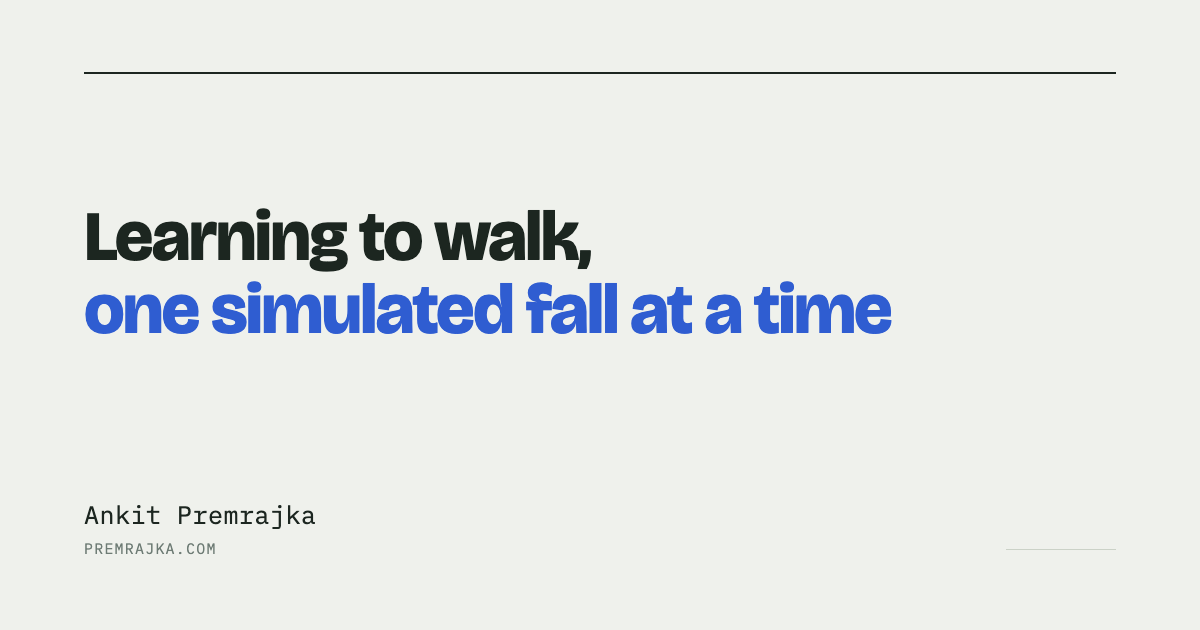
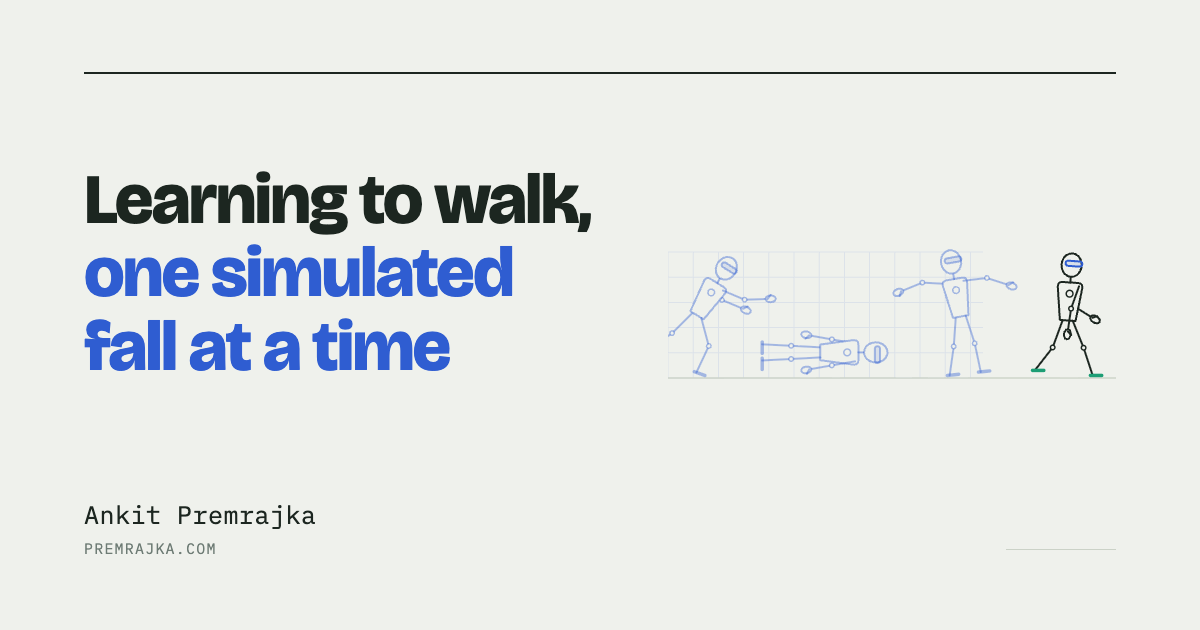
Refresh post preview cards; drop Sources sections
- Add simple line illustrations to the four existing post preview cards,
  with a recurring humanoid robot on the robotics posts and a seen/imagined
  film strip on the world models primer; bump their og:image tags to ?v=2
  so social sites refetch them
- Remove the Sources section from the world models primer (and the now
  unused .sources styles) to keep posts consistent

Claude-Session: https://claude.ai/code/session_01TZqvQS7foht1FQ95u5NHkG

Changed region(s): [[0.0617, 0.2714, 0.8325, 0.6032], [0.7708, 0.3921, 0.925, 0.6032]]

diff --git a/posts/world-models-primer.html b/posts/world-models-primer.html
@@ -10,11 +10,11 @@
 <meta property="og:title" content="World Models: What They Are, How They're Built, and Who's Building Them">
 <meta property="og:description" content="Every AI company now claims a &quot;world model&quot;. Here's what one actually is, and how to tell.">
 <meta property="og:url" content="https://premrajka.com/posts/world-models-primer.html">
-<meta property="og:image" content="https://premrajka.com/assets/img/og-world-models-primer.png">
+<meta property="og:image" content="https://premrajka.com/assets/img/og-world-models-primer.png?v=2">
 <meta name="twitter:card" content="summary_large_image">
 <meta name="twitter:title" content="World Models: What They Are, How They're Built, and Who's Building Them">
 <meta name="twitter:description" content="Every AI company now claims a &quot;world model&quot;. Here's what one actually is, and how to tell.">
-<meta name="twitter:image" content="https://premrajka.com/assets/img/og-world-models-primer.png">
+<meta name="twitter:image" content="https://premrajka.com/assets/img/og-world-models-primer.png?v=2">
 <link rel="icon" type="image/svg+xml" href="../assets/img/favicon.svg">
 <link rel="preconnect" href="https://fonts.googleapis.com">
 <link href="https://fonts.googleapis.com/css2?family=Bricolage+Grotesque:opsz,wght@12..96,400;12..96,600;12..96,700&family=Source+Serif+4:ital,opsz,wght@0,8..60,400;0,8..60,600;1,8..60,400&family=IBM+Plex+Mono:wght@400;500&display=swap" rel="stylesheet">
@@ -39,7 +39,7 @@
   <div class="hero-inner">
     <h1>World models, <span>from the ground up</span></h1>
     <p class="lede">"World model" has become one of the most overloaded terms in AI. Startups use it in pitch decks, chip companies sell "world foundation model" platforms, and research labs use it to mean several quite different things. This post builds a precise mental model from the ground up: what a world model is, how it differs from the two things it's most often confused with, how frontier labs actually train one, how anyone measures whether it gets physics right, and who is building them today.</p>
-    <p class="hero-note">A primer on the learned simulators behind the next wave of robotics, driving, and interactive media. Facts about companies and models are current as of October 2026. Technical terms are collected in a glossary, and sources are listed at the end.</p>
+    <p class="hero-note">A primer on the learned simulators behind the next wave of robotics, driving, and interactive media. Facts about companies and models are current as of October 2026. Technical terms are collected in a glossary at the end.</p>
   </div>
 </div>
 
@@ -68,7 +68,6 @@
 
     <div class="rail-part">5 · Reference</div>
     <a href="#glossary">Glossary</a>
-    <a href="#sources">Sources</a>
   </nav>
 
   <main>
@@ -418,7 +417,7 @@
     <div class="part-head">
       <span class="pnum">Part Five</span>
       <h2>Reference</h2>
-      <p>Terms used throughout, and where the facts come from.</p>
+      <p>The technical terms used throughout, in one place.</p>
     </div>
 
     <section class="s" id="glossary">
@@ -461,32 +460,6 @@
         <dt>World model</dt>
         <dd>A learned system that predicts how the world's state changes in response to actions.</dd>
       </dl>
-    </section>
-
-    <section class="s" id="sources">
-      <h3>Sources</h3>
-      <ul class="sources">
-        <li><a href="https://www.worldlabs.ai/blog/atlas" target="_blank" rel="noopener noreferrer">World Labs — Atlas: A World Model for Spatial Intelligence</a></li>
-        <li><a href="https://www.worldlabs.ai/blog" target="_blank" rel="noopener noreferrer">World Labs — Research &amp; Insights (SceniX, real-to-sim-to-real)</a></li>
-        <li><a href="https://techcrunch.com/2025/08/05/deepmind-reveals-genie-3-a-world-model-that-could-be-the-key-to-reaching-agi" target="_blank" rel="noopener noreferrer">TechCrunch — DeepMind reveals Genie 3</a></li>
-        <li><a href="https://techcrunch.com/2026/01/29/i-built-marshmallow-castles-in-googles-new-ai-world-generator-project-genie" target="_blank" rel="noopener noreferrer">TechCrunch — Hands-on with Project Genie</a></li>
-        <li><a href="https://shellypalmer.com/2026/01/google-will-simulate-a-world-for-you/" target="_blank" rel="noopener noreferrer">Shelly Palmer — Project Genie details</a></li>
-        <li><a href="https://en.wikipedia.org/wiki/Genie_(world_model)" target="_blank" rel="noopener noreferrer">Wikipedia — Genie (world model)</a></li>
-        <li><a href="https://en.wikipedia.org/wiki/Waymo_World_Model" target="_blank" rel="noopener noreferrer">Wikipedia — Waymo World Model</a></li>
-        <li><a href="https://decrypt.co/362243/openai-shut-down-sora-derailing-1-billion-deal-disney" target="_blank" rel="noopener noreferrer">Decrypt — OpenAI shuts down Sora</a></li>
-        <li>Odyssey-3 coverage: <a href="https://explainx.ai/blog/odyssey-3-world-model-launch-2026" target="_blank" rel="noopener noreferrer">ExplainX</a> and <a href="https://www.orcarouter.ai/blog/odyssey-3-physics-agent-preview" target="_blank" rel="noopener noreferrer">OrcaRouter</a></li>
-        <li><a href="https://logicity.in/en/blog/odyssey-ml-raises-310m-to-build-ai-that-simulates-physics" target="_blank" rel="noopener noreferrer">Odyssey funding</a></li>
-        <li><a href="https://siliconangle.com/2026/03/10/yann-lecuns-new-startup-ami-labs-raises-1-03b-train-world-models/" target="_blank" rel="noopener noreferrer">SiliconANGLE — AMI Labs raises $1.03B</a></li>
-        <li><a href="https://arxiv.org/pdf/2606.02800" target="_blank" rel="noopener noreferrer">NVIDIA — Cosmos 3: Omnimodal World Models for Physical AI (technical report)</a></li>
-        <li><a href="https://arxiv.org/pdf/2501.03575" target="_blank" rel="noopener noreferrer">NVIDIA — Cosmos World Foundation Model Platform (original Cosmos paper)</a></li>
-        <li><a href="https://github.com/google-deepmind/physics-iq-benchmark" target="_blank" rel="noopener noreferrer">Physics-IQ and Physics-IQ Verified leaderboards</a></li>
-        <li><a href="https://arxiv.org/pdf/2606.18943" target="_blank" rel="noopener noreferrer">Physics-IQ Verified paper</a></li>
-        <li><a href="https://openaccess.thecvf.com/content/CVPR2026/papers/Zhou_PAI-Bench_A_Comprehensive_Benchmark_For_Physical_AI_CVPR_2026_paper.pdf" target="_blank" rel="noopener noreferrer">PAI-Bench (CVPR 2026)</a></li>
-        <li><a href="https://arxiv.org/html/2610.08791" target="_blank" rel="noopener noreferrer">World Models' Last Exam in Physics</a></li>
-        <li><a href="https://arxiv.org/pdf/2609.29669" target="_blank" rel="noopener noreferrer">Survey of evaluation benchmarks for predictive embodied intelligence</a></li>
-        <li><a href="https://arxiv.org/pdf/2606.17030" target="_blank" rel="noopener noreferrer">WorldModelBench results (reported in Qwen-RobotWorld technical report)</a></li>
-        <li><a href="https://github.com/nik-55/world-models" target="_blank" rel="noopener noreferrer">Curated list of world model research</a></li>
-      </ul>
     </section>
 
     <div class="footer">

diff --git a/posts/training-robot-policies.html b/posts/training-robot-policies.html
@@ -10,11 +10,11 @@
 <meta property="og:title" content="Learning to Walk, One Simulated Fall at a Time">
 <meta property="og:description" content="How reward design and massively parallel simulation teach a robot to walk — then map the concepts onto a real open-source repository.">
 <meta property="og:url" content="https://premrajka.com/posts/training-robot-policies.html">
-<meta property="og:image" content="https://premrajka.com/assets/img/og-training-robot-policies.png">
+<meta property="og:image" content="https://premrajka.com/assets/img/og-training-robot-policies.png?v=2">
 <meta name="twitter:card" content="summary_large_image">
 <meta name="twitter:title" content="Learning to Walk, One Simulated Fall at a Time">
 <meta name="twitter:description" content="How reward design and massively parallel simulation teach a robot to walk — then map the concepts onto a real open-source repository.">
-<meta name="twitter:image" content="https://premrajka.com/assets/img/og-training-robot-policies.png">
+<meta name="twitter:image" content="https://premrajka.com/assets/img/og-training-robot-policies.png?v=2">
 <link rel="icon" type="image/svg+xml" href="../assets/img/favicon.svg">
 <link rel="preconnect" href="https://fonts.googleapis.com">
 <link href="https://fonts.googleapis.com/css2?family=Bricolage+Grotesque:opsz,wght@12..96,400;12..96,600;12..96,700&family=Source+Serif+4:ital,opsz,wght@0,8..60,400;0,8..60,600;1,8..60,400&family=IBM+Plex+Mono:wght@400;500;600&display=swap" rel="stylesheet">

diff --git a/posts/robot-training-data.html b/posts/robot-training-data.html
@@ -10,11 +10,11 @@
 <meta property="og:title" content="Where Robot Training Data Comes From — A Technical Guide">
 <meta property="og:description" content="Four ways to get a robot the data it needs, and the quantity-versus-fidelity trade-off behind each one.">
 <meta property="og:url" content="https://premrajka.com/posts/robot-training-data.html">
-<meta property="og:image" content="https://premrajka.com/assets/img/og-robot-training-data.png">
+<meta property="og:image" content="https://premrajka.com/assets/img/og-robot-training-data.png?v=2">
 <meta name="twitter:card" content="summary_large_image">
 <meta name="twitter:title" content="Where Robot Training Data Comes From — A Technical Guide">
 <meta name="twitter:description" content="Four ways to get a robot the data it needs, and the quantity-versus-fidelity trade-off behind each one.">
-<meta name="twitter:image" content="https://premrajka.com/assets/img/og-robot-training-data.png">
+<meta name="twitter:image" content="https://premrajka.com/assets/img/og-robot-training-data.png?v=2">
 <link rel="icon" type="image/svg+xml" href="../assets/img/favicon.svg">
 <link rel="preconnect" href="https://fonts.googleapis.com">
 <link href="https://fonts.googleapis.com/css2?family=Bricolage+Grotesque:opsz,wght@12..96,400;12..96,600;12..96,700&family=Source+Serif+4:ital,opsz,wght@0,8..60,400;0,8..60,600;1,8..60,400&family=IBM+Plex+Mono:wght@400;500&display=swap" rel="stylesheet">

diff --git a/posts/robot-world-models.html b/posts/robot-world-models.html
@@ -10,11 +10,11 @@
 <meta property="og:title" content="Demystifying AI Models in Robotics">
 <meta property="og:description" content="Untangling two kinds of AI: ones that imagine the world, and ones that act in it.">
 <meta property="og:url" content="https://premrajka.com/posts/robot-world-models.html">
-<meta property="og:image" content="https://premrajka.com/assets/img/og-robot-world-models.png">
+<meta property="og:image" content="https://premrajka.com/assets/img/og-robot-world-models.png?v=2">
 <meta name="twitter:card" content="summary_large_image">
 <meta name="twitter:title" content="Demystifying AI Models in Robotics">
 <meta name="twitter:description" content="Untangling two kinds of AI: ones that imagine the world, and ones that act in it.">
-<meta name="twitter:image" content="https://premrajka.com/assets/img/og-robot-world-models.png">
+<meta name="twitter:image" content="https://premrajka.com/assets/img/og-robot-world-models.png?v=2">
 <link rel="icon" type="image/svg+xml" href="../assets/img/favicon.svg">
 <link rel="preconnect" href="https://fonts.googleapis.com">
 <link href="https://fonts.googleapis.com/css2?family=Bricolage+Grotesque:opsz,wght@12..96,400;12..96,600;12..96,700&family=Source+Serif+4:ital,opsz,wght@0,8..60,400;0,8..60,600;1,8..60,400&family=IBM+Plex+Mono:wght@400;500&display=swap" rel="stylesheet">

diff --git a/assets/css/style.css b/assets/css/style.css
@@ -529,8 +529,6 @@ pre code { background: none; border: none; padding: 0; font-size: inherit; }
 .ar-f5 { grid-area: f5; } .ar-up { grid-area: up; } .ar-act { grid-area: act; } .ar-tl { grid-area: tl; }
 .ar-diagram figcaption { margin-top: .8rem; font-size: .8rem; color: var(--ink-3); font-style: italic; text-align: center; }
 
-.sources { font-size: .9rem; color: var(--ink-2); padding-left: 1.2rem; }
-.sources li { margin-bottom: .35rem; }
 /* ---------------------------------------------------
    Interactive figures (animated SVG explainers, e.g. posts/spectrum-satellites.html)
    The figure palette is scoped to .anim so it doesn't leak into the rest of the site;
